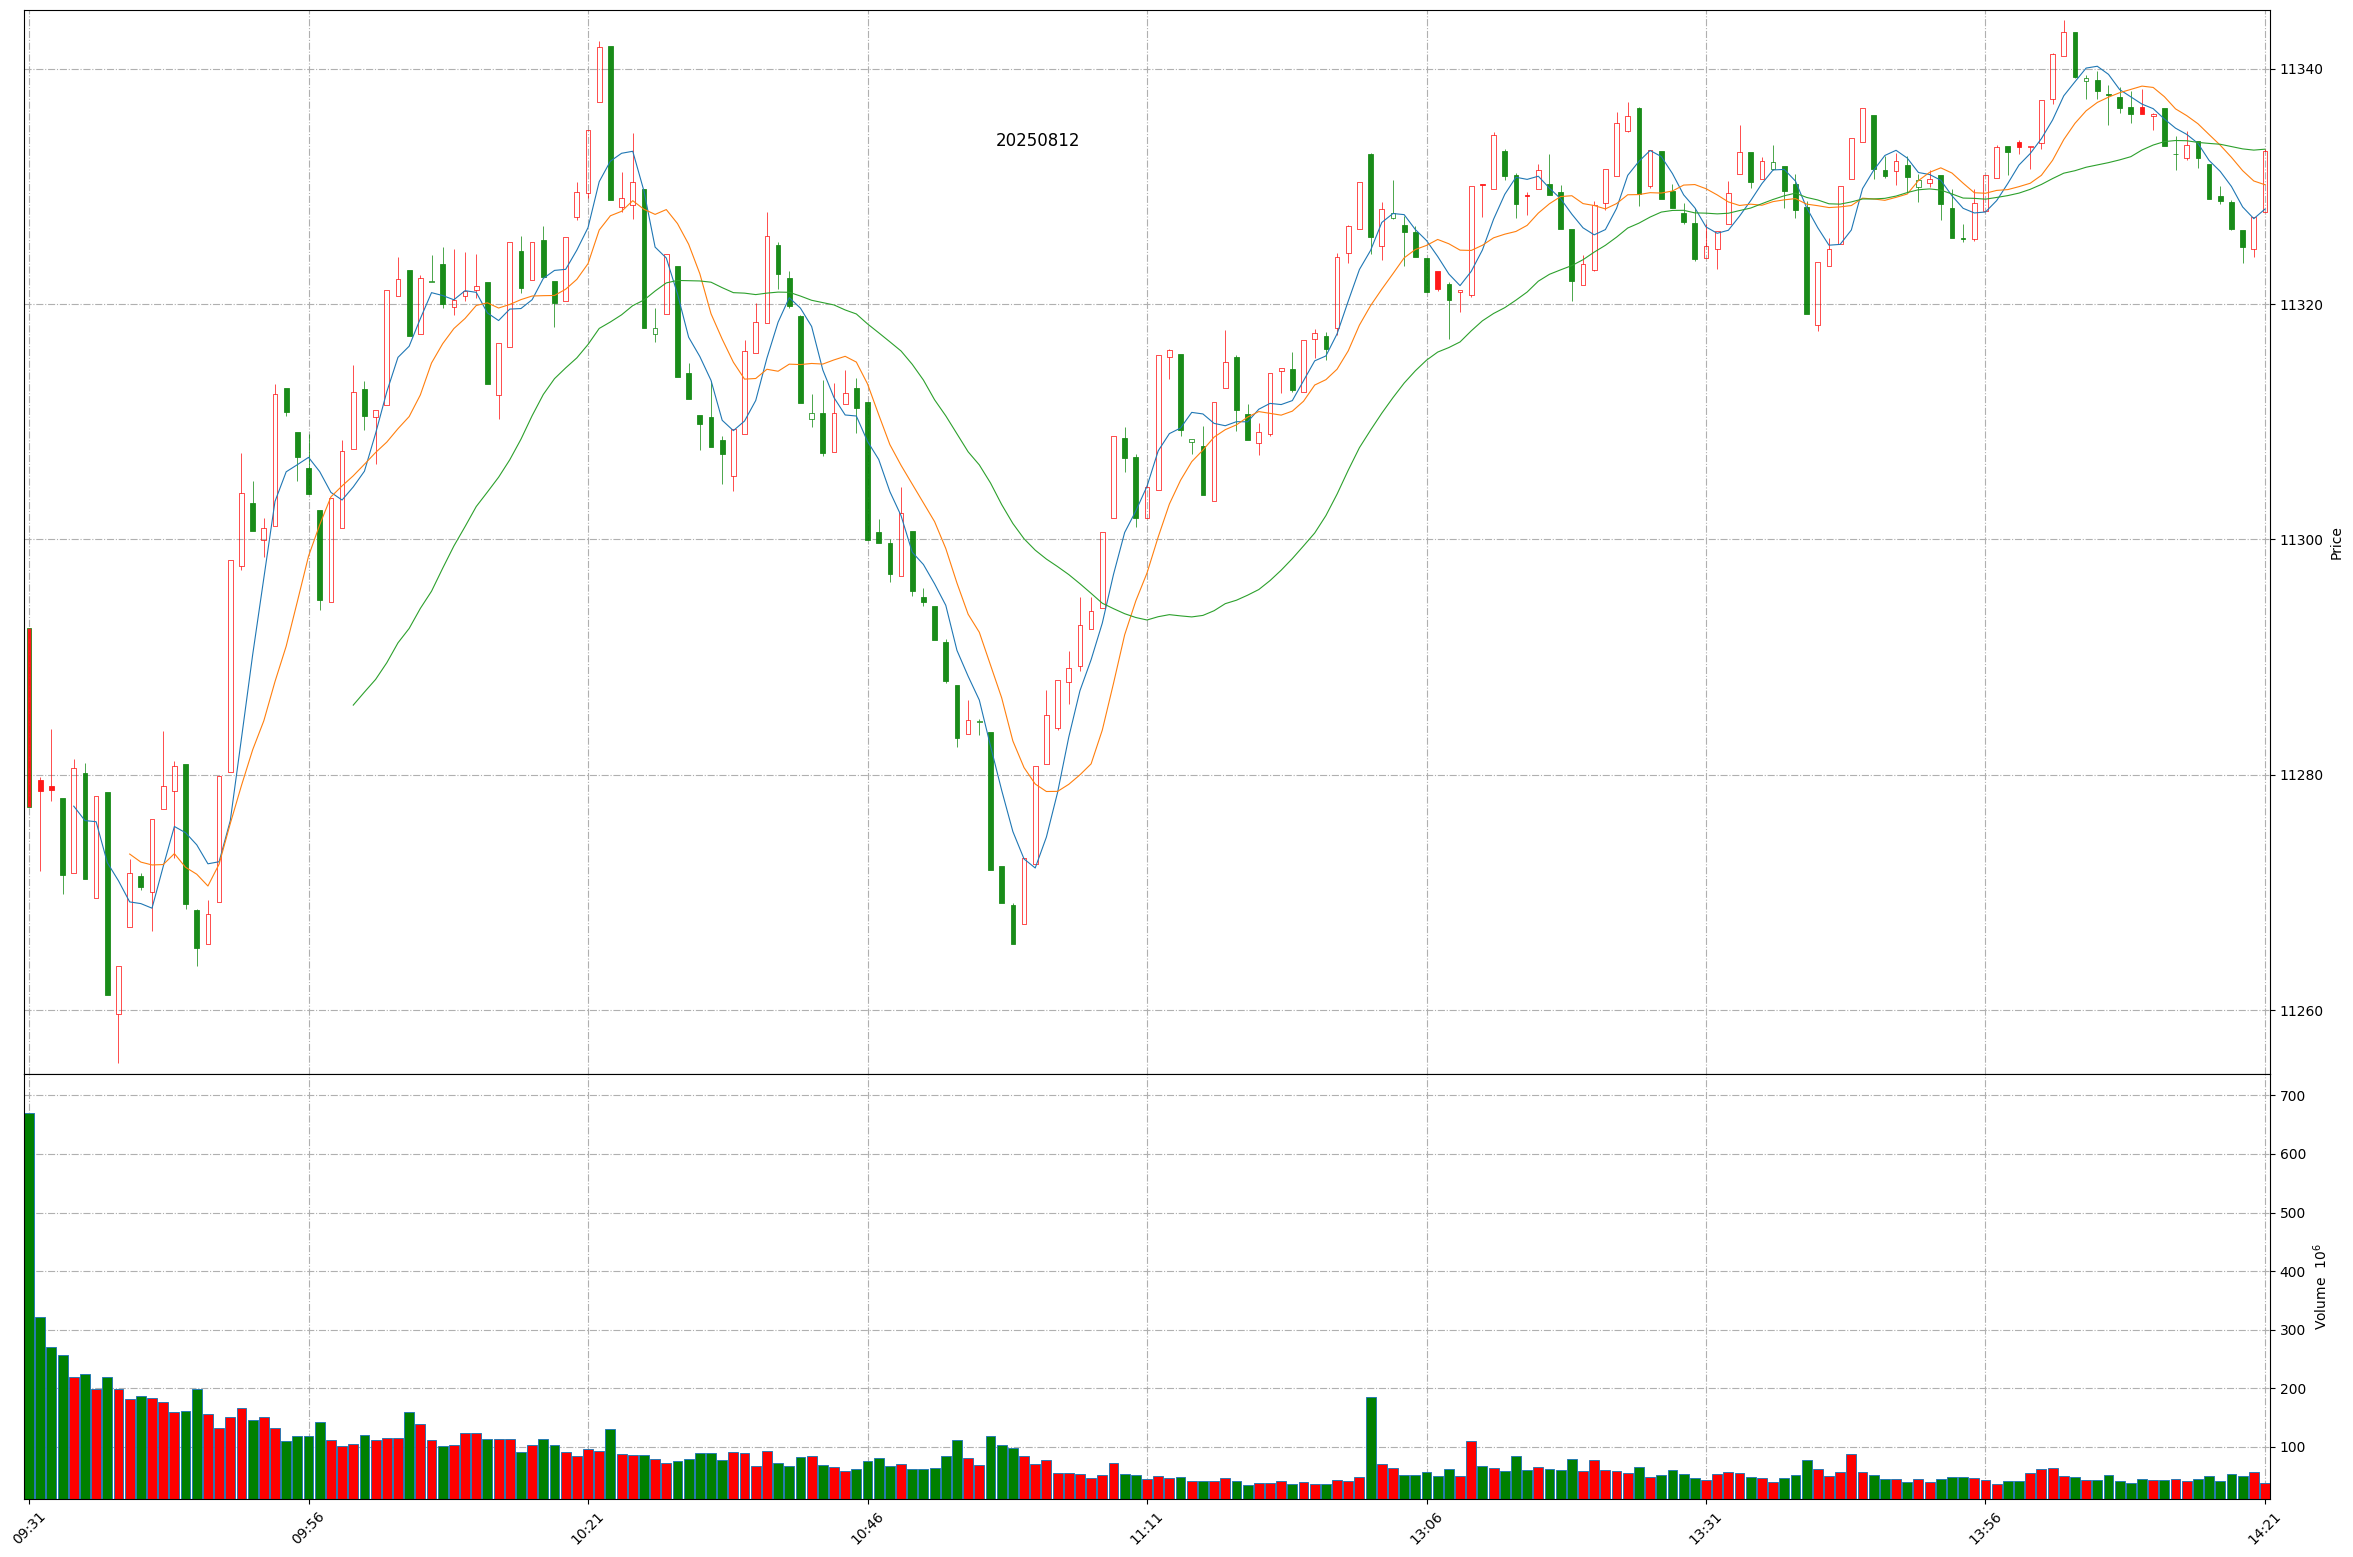
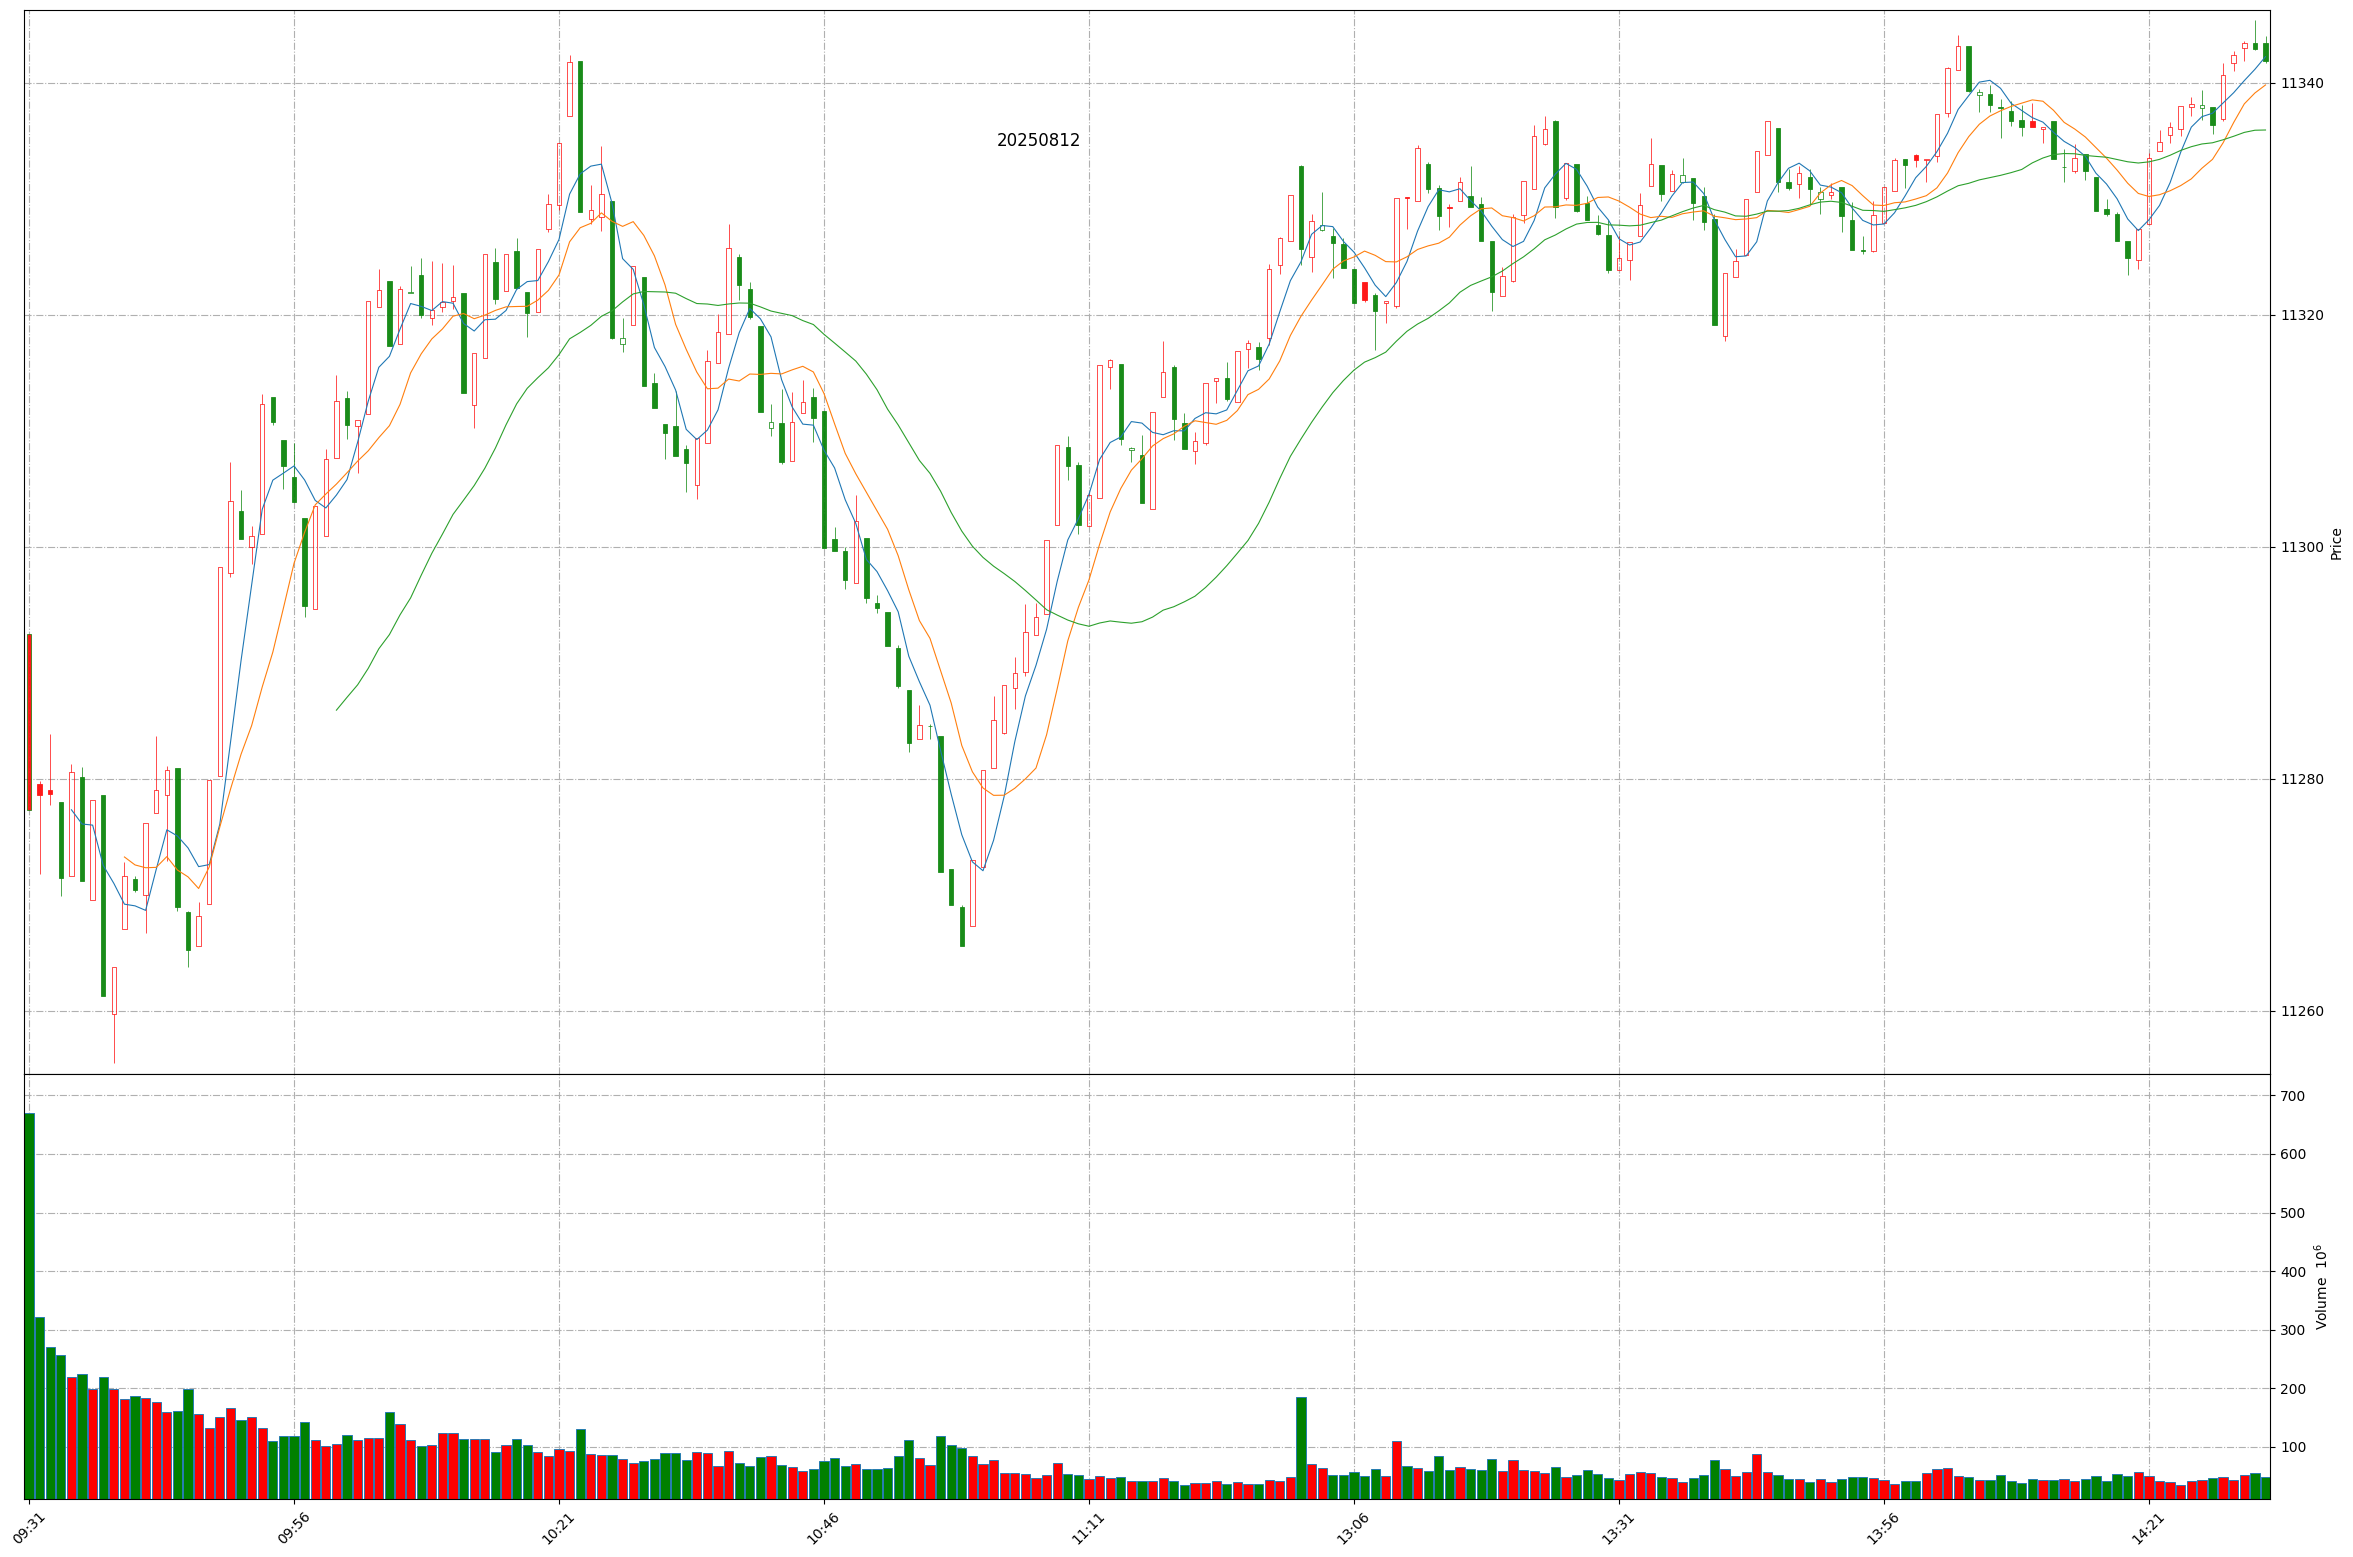
Github action update at 2025-08-12 14:32:07.

diff --git a/README.md b/README.md
@@ -1,11 +1,11 @@
 
 # Daily-A-share-market-quotes 每日 A 股指数（5min 更新）- 20250812
 
-### 上证指数 20250812 14:21
+### 上证指数 20250812 14:32
 ![](./fig/2025/8/20250812-sh000001.png)
 
-### 深证成指 20250812 14:21
+### 深证成指 20250812 14:32
 ![](./fig/2025/8/20250812-sz399001.png)
 
-### 北证50 20250812 14:21
+### 北证50 20250812 14:32
 ![](./fig/2025/8/20250812-bj899050.png)
